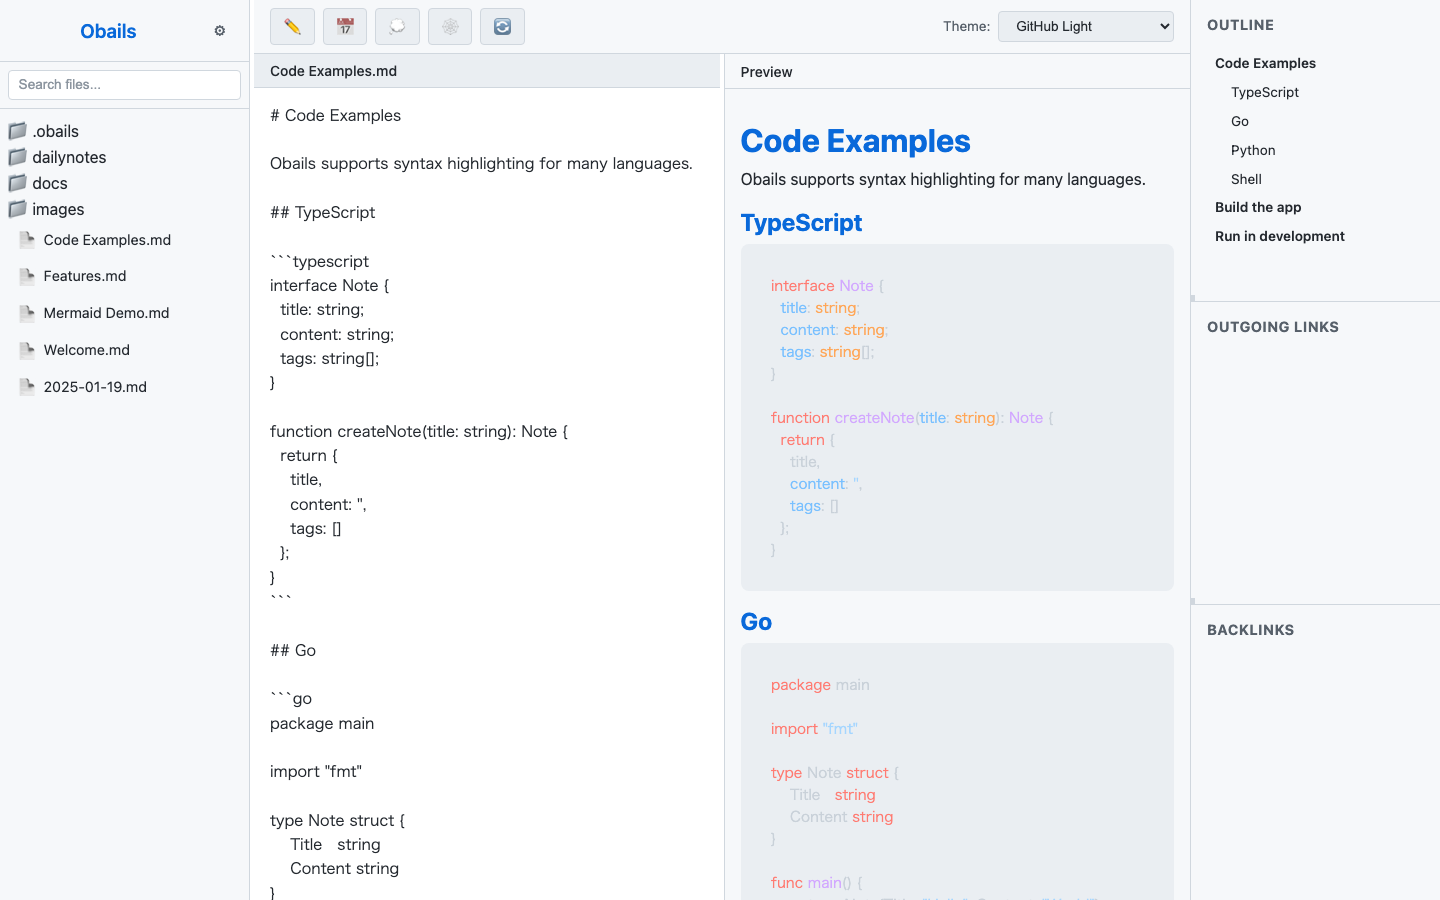
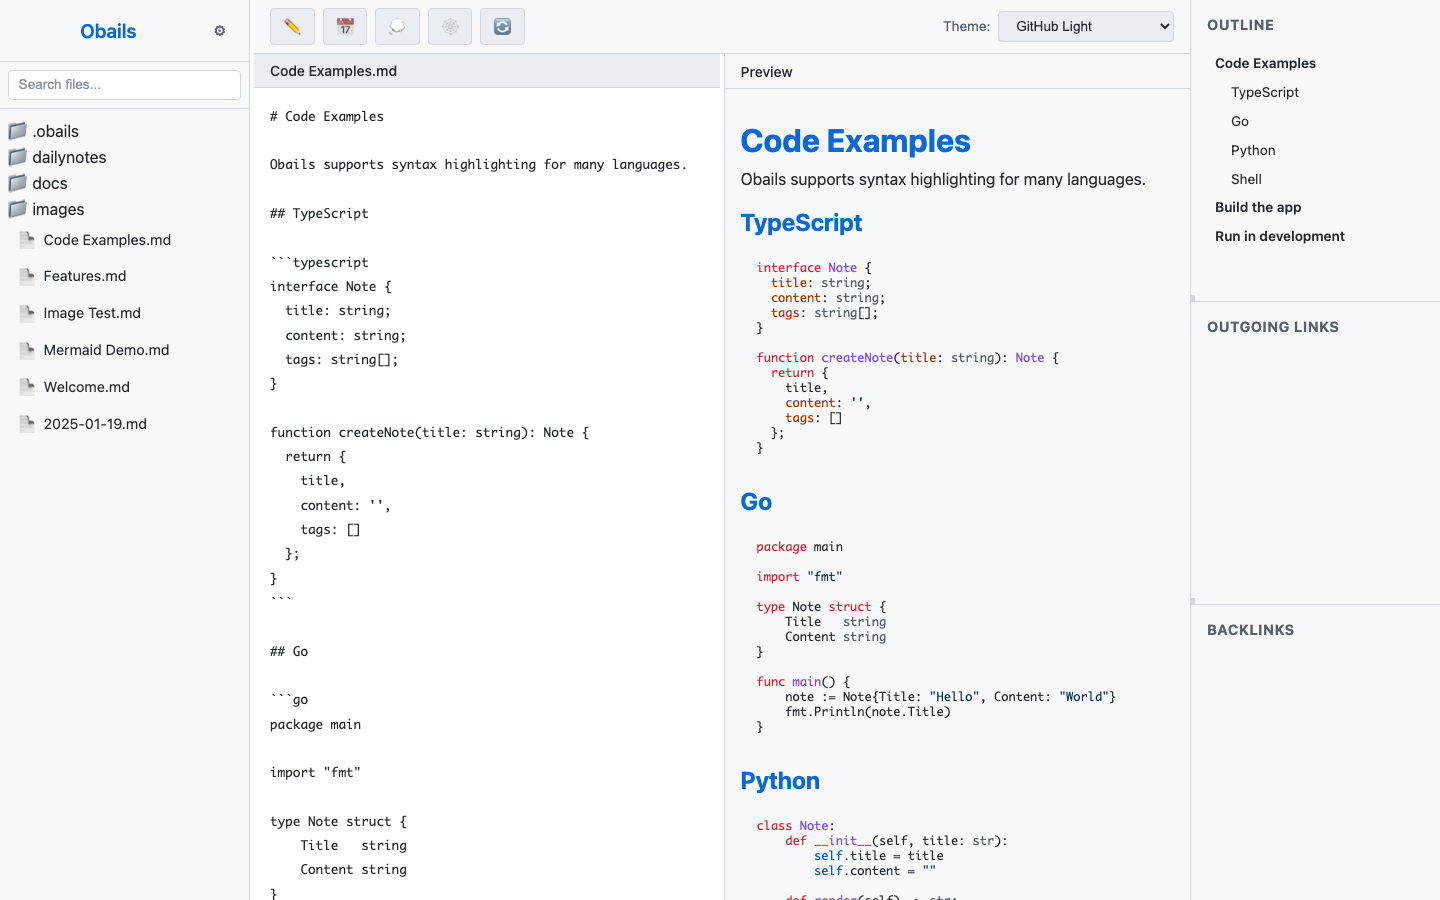
Improve light theme code highlighting

diff --git a/frontend/src/styles/main.css b/frontend/src/styles/main.css
@@ -13,6 +13,15 @@
     --border: #d0d7de;
     --success: #1a7f37;
     --error: #cf222e;
+    --code-bg: #f6f8fa;
+    --code-text: #24292f;
+    --syntax-comment: #57606a;
+    --syntax-keyword: #cf222e;
+    --syntax-string: #0a3069;
+    --syntax-title: #8250df;
+    --syntax-attr: #953800;
+    --syntax-literal: #0550ae;
+    --syntax-meta: #57606a;
     --sidebar-width: 250px;
     --backlinks-width: 250px;
 }
@@ -30,6 +39,15 @@
     --border: #d3cbb7;
     --success: #859900;
     --error: #dc322f;
+    --code-bg: #eee8d5;
+    --code-text: #586e75;
+    --syntax-comment: #6c7f80;
+    --syntax-keyword: #dc322f;
+    --syntax-string: #2a6f9e;
+    --syntax-title: #6c71c4;
+    --syntax-attr: #b58900;
+    --syntax-literal: #268bd2;
+    --syntax-meta: #7f8c8d;
 }
 
 /* One Light */
@@ -45,6 +63,15 @@
     --border: #d3d3d4;
     --success: #50a14f;
     --error: #e45649;
+    --code-bg: #f0f0f0;
+    --code-text: #383a42;
+    --syntax-comment: #696c77;
+    --syntax-keyword: #a626a4;
+    --syntax-string: #0b6b2b;
+    --syntax-title: #4078f2;
+    --syntax-attr: #986801;
+    --syntax-literal: #0184bc;
+    --syntax-meta: #5c6370;
 }
 
 /* Catppuccin Latte */
@@ -60,6 +87,15 @@
     --border: #ccd0da;
     --success: #40a02b;
     --error: #d20f39;
+    --code-bg: #e6e9ef;
+    --code-text: #4c4f69;
+    --syntax-comment: #6c6f85;
+    --syntax-keyword: #8839ef;
+    --syntax-string: #40a02b;
+    --syntax-title: #1e66f5;
+    --syntax-attr: #df8e1d;
+    --syntax-literal: #209fb5;
+    --syntax-meta: #7c7f93;
 }
 
 /* Rosé Pine Dawn */
@@ -75,6 +111,15 @@
     --border: #dfdad9;
     --success: #56949f;
     --error: #b4637a;
+    --code-bg: #f2e9e1;
+    --code-text: #575279;
+    --syntax-comment: #797593;
+    --syntax-keyword: #b4637a;
+    --syntax-string: #286983;
+    --syntax-title: #907aa9;
+    --syntax-attr: #ea9d34;
+    --syntax-literal: #56949f;
+    --syntax-meta: #9893a5;
 }
 
 /* ========== DARK THEMES ========== */
@@ -194,6 +239,15 @@
     [data-theme="gruvbox"],
     [data-theme="tokyonight"]
 ) {
+    --code-bg: #0d1117;
+    --code-text: #c9d1d9;
+    --syntax-comment: #8b949e;
+    --syntax-keyword: #ff7b72;
+    --syntax-string: #a5d6ff;
+    --syntax-title: #d2a8ff;
+    --syntax-attr: #79c0ff;
+    --syntax-literal: #79c0ff;
+    --syntax-meta: #8b949e;
     --graph-bg: #0a0a1a;
     --graph-header-bg: rgba(20, 20, 40, 0.95);
     --graph-border: rgba(100, 100, 255, 0.2);
@@ -757,7 +811,8 @@ body {
 }
 
 .preview-pane code {
-    background: var(--bg-tertiary);
+    background: var(--code-bg);
+    color: var(--code-text);
     padding: 0.2rem 0.4rem;
     border-radius: 4px;
     font-family: 'SF Mono', 'Fira Code', monospace;
@@ -765,11 +820,63 @@ body {
 }
 
 .preview-pane pre {
-    background: var(--bg-tertiary);
+    background: var(--code-bg);
     padding: 1rem;
     border-radius: 8px;
     overflow-x: auto;
     margin: 0.5rem 0;
+}
+
+.preview-pane pre code,
+.preview-pane pre code.hljs {
+    display: block;
+    background: transparent;
+    color: var(--code-text);
+    padding: 0;
+}
+
+.preview-pane pre code.hljs .hljs-comment,
+.preview-pane pre code.hljs .hljs-quote {
+    color: var(--syntax-comment);
+}
+
+.preview-pane pre code.hljs .hljs-keyword,
+.preview-pane pre code.hljs .hljs-selector-tag,
+.preview-pane pre code.hljs .hljs-subst {
+    color: var(--syntax-keyword);
+}
+
+.preview-pane pre code.hljs .hljs-string,
+.preview-pane pre code.hljs .hljs-doctag,
+.preview-pane pre code.hljs .hljs-template-variable {
+    color: var(--syntax-string);
+}
+
+.preview-pane pre code.hljs .hljs-title,
+.preview-pane pre code.hljs .hljs-section,
+.preview-pane pre code.hljs .hljs-selector-id {
+    color: var(--syntax-title);
+}
+
+.preview-pane pre code.hljs .hljs-attr,
+.preview-pane pre code.hljs .hljs-attribute,
+.preview-pane pre code.hljs .hljs-name,
+.preview-pane pre code.hljs .hljs-selector-class {
+    color: var(--syntax-attr);
+}
+
+.preview-pane pre code.hljs .hljs-number,
+.preview-pane pre code.hljs .hljs-literal,
+.preview-pane pre code.hljs .hljs-variable,
+.preview-pane pre code.hljs .hljs-variable.language_,
+.preview-pane pre code.hljs .hljs-tag {
+    color: var(--syntax-literal);
+}
+
+.preview-pane pre code.hljs .hljs-meta,
+.preview-pane pre code.hljs .hljs-built_in,
+.preview-pane pre code.hljs .hljs-type {
+    color: var(--syntax-meta);
 }
 
 .preview-pane .frontmatter {

diff --git a/e2e/visual-regression.spec.ts b/e2e/visual-regression.spec.ts
@@ -162,8 +162,53 @@ test.describe('Visual Regression - README Screenshots', () => {
     await switchTheme(page, 'github-light');
 
     // コードブロックのハイライトを待機
-    await page.waitForSelector('.preview-pane pre code', { timeout: 5000 }).catch(() => {});
+    await page.waitForSelector('.preview-pane pre code.hljs .hljs-keyword', { timeout: 5000 });
     await page.waitForTimeout(500);
+
+    const lowContrastTokens = await page.evaluate(() => {
+      function parseRgb(color: string): [number, number, number] {
+        const match = color.match(/rgba?\((\d+),\s*(\d+),\s*(\d+)/);
+        if (!match) {
+          throw new Error(`Unsupported color format: ${color}`);
+        }
+        return [Number(match[1]), Number(match[2]), Number(match[3])];
+      }
+
+      function luminance([r, g, b]: [number, number, number]): number {
+        const channels = [r, g, b].map((value) => {
+          const srgb = value / 255;
+          return srgb <= 0.03928 ? srgb / 12.92 : ((srgb + 0.055) / 1.055) ** 2.4;
+        });
+        return 0.2126 * channels[0] + 0.7152 * channels[1] + 0.0722 * channels[2];
+      }
+
+      function contrastRatio(foreground: string, background: string): number {
+        const fg = luminance(parseRgb(foreground));
+        const bg = luminance(parseRgb(background));
+        const lighter = Math.max(fg, bg);
+        const darker = Math.min(fg, bg);
+        return (lighter + 0.05) / (darker + 0.05);
+      }
+
+      const pre = document.querySelector('.preview-pane pre');
+      if (!pre) {
+        throw new Error('Code block container was not rendered');
+      }
+      const background = getComputedStyle(pre).backgroundColor;
+
+      return Array.from(document.querySelectorAll('.preview-pane pre code, .preview-pane pre code span'))
+        .map((element) => {
+          const style = getComputedStyle(element);
+          return {
+            className: element.className || element.tagName.toLowerCase(),
+            color: style.color,
+            contrast: contrastRatio(style.color, background),
+          };
+        })
+        .filter((token) => token.contrast < 4.5);
+    });
+
+    expect(lowContrastTokens).toEqual([]);
 
     await page.screenshot({
       path: path.join(SCREENSHOT_DIR, 'code-highlight.png'),
@@ -200,8 +245,14 @@ test.describe('Visual Regression - README Screenshots', () => {
     const overlay = page.locator('#graph-overlay');
     await expect(overlay).toHaveClass(/visible/, { timeout: 5000 });
 
-    // モックのグラフデータを注入
+    // 実アプリの非同期ロードが完了してから、README用の安定したモックグラフを注入する
+    await page.waitForFunction(() => {
+      const stats = document.getElementById('graph-stats')?.textContent || '';
+      return stats !== 'Building index...';
+    }, { timeout: 10000 }).catch(() => {});
     await injectMockGraphData(page);
+    await expect(page.locator('#graph-container svg')).toBeVisible({ timeout: 5000 });
+    await expect(page.locator('#graph-stats')).toContainText('files');
     await page.waitForTimeout(500);
 
     await page.screenshot({

diff --git a/e2e/app.spec.ts b/e2e/app.spec.ts
@@ -12,7 +12,7 @@ test.describe('Obails App', () => {
     const contextMenu = page.locator('#context-menu');
     await expect(contextMenu).toBeVisible();
 
-    await page.locator('.sidebar-header h2').click();
+    await page.locator('#context-menu-backdrop').click({ position: { x: 10, y: 10 } });
     await expect(contextMenu).toBeHidden();
   });
 
@@ -47,7 +47,7 @@ test.describe('Obails App', () => {
     await page.waitForTimeout(300);
     await expect(contextMenu).toBeVisible();
 
-    await page.locator('.sidebar-header h2').click();
+    await page.locator('#context-menu-backdrop').click({ position: { x: 10, y: 10 } });
     await expect(contextMenu).toBeHidden();
   });
 
